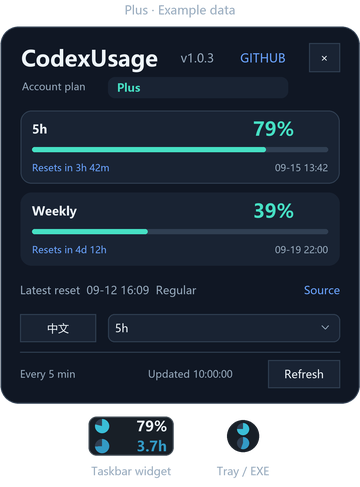
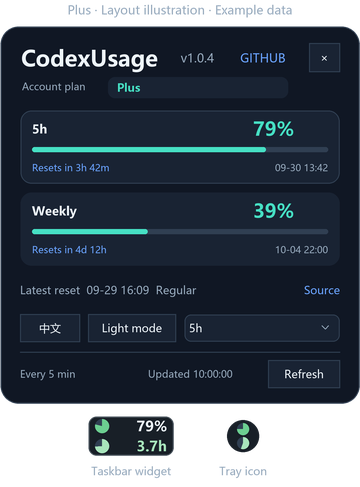
Prepare v1.0.4 release documentation and current previews

diff --git a/scripts/render-previews.py b/scripts/render-previews.py
@@ -19,8 +19,8 @@ MUTED = (150, 169, 188)
 AQUA = (70, 224, 196)
 BLUE = (106, 163, 255)
 WIDGET_BG = (24, 31, 39)
-QUOTA = (58, 190, 215)
-TIME = (51, 154, 197)
+QUOTA = (108, 207, 145)
+TIME = (168, 229, 188)
 
 
 class Canvas:
@@ -67,15 +67,15 @@ class Canvas:
 
 
 def render(plan, english, destination, fonts, version):
-    # Consistent example clock: 2026-09-15 10:00 local time.
+    # Synthetic example clock: 2026-09-30 10:00 local time.
     if plan == "Plus":
         windows = [
-            ("5h" if english else "5 小时额度", 79, "Resets in 3h 42m" if english else "3小时42分后重置", "09-15 13:42"),
-            ("Weekly" if english else "每周额度", 39, "Resets in 4d 12h" if english else "4天12小时后重置", "09-19 22:00"),
+            ("5h" if english else "5 小时额度", 79, "Resets in 3h 42m" if english else "3小时42分后重置", "09-30 13:42"),
+            ("Weekly" if english else "每周额度", 39, "Resets in 4d 12h" if english else "4天12小时后重置", "10-04 22:00"),
         ]
     else:
         windows = [
-            ("Weekly" if english else "每周额度", 95, "Resets in 4d 12h" if english else "4天12小时后重置", "09-19 22:00"),
+            ("Weekly" if english else "每周额度", 95, "Resets in 4d 12h" if english else "4天12小时后重置", "10-04 22:00"),
         ]
     cards_height = len(windows) * 74 + (len(windows) - 1) * 8
     choice_y = 84 + cards_height + 48
@@ -83,7 +83,7 @@ def render(plan, english, destination, fonts, version):
     app_height = footer_y + 44
     top = 26
     canvas = Canvas(top + app_height + 83, fonts)
-    canvas.text(plan + (" · Example data" if english else " · 示例数据"), 0, 0, 360, 20, 12, MUTED, align="center")
+    canvas.text(plan + (" · Layout illustration · Example data" if english else " · 布局示意 · 示例数据"), 0, 0, 360, 20, 12, MUTED, align="center")
     canvas.round(.5, top + .5, 359, app_height - 1, 18, BG, BORDER)
     canvas.text("CodexUsage", 21, top + 18, 153, 28, 22, bold=True)
     canvas.text(version, 176, top + 18, 43, 28, 12, MUTED, align="center")
@@ -102,12 +102,16 @@ def render(plan, english, destination, fonts, version):
         canvas.round(32, y + 37, 296 * amount / 100, 5, 2.5, AQUA)
         canvas.text(countdown, 32, y + 49, 170, 17, 9.5, BLUE)
         canvas.text(reset, 204, y + 49, 124, 17, 9.5, MUTED, align="right")
-    canvas.text("Latest reset  09-12 16:09  Regular" if english else "最近重置公告  09-12 16:09  即时重置", 20, top + 84 + cards_height + 10, 262, 28, 11, MUTED)
+    canvas.text("Latest reset  09-29 16:09  Regular" if english else "最近重置公告  09-29 16:09  即时重置", 20, top + 84 + cards_height + 10, 262, 28, 11, MUTED)
     canvas.text("Source" if english else "来源", 290, top + 84 + cards_height + 10, 50, 28, 11, BLUE, align="right")
-    canvas.round(20, top + choice_y, 76, 28, 0, CARD, BORDER)
-    canvas.text("中文" if english else "English", 20, top + choice_y, 76, 28, 11, align="center")
-    canvas.round(108, top + choice_y, 232, 28, 6.4, CARD, BORDER)
-    canvas.text(windows[0][0], 115, top + choice_y, 197, 28, 11)
+    # DetailsLayout.ChoiceRow: language, theme and selected quota share one row.
+    # Captions and 11 px UI font match DetailsLayout / DetailsForm at 100% DPI.
+    canvas.round(20, top + choice_y, 60, 28, 0, CARD, BORDER)
+    canvas.text("中文" if english else "English", 20, top + choice_y, 60, 28, 11, align="center")
+    canvas.round(88, top + choice_y, 88, 28, 0, CARD, BORDER)
+    canvas.text("Light mode" if english else "浅色模式", 88, top + choice_y, 88, 28, 11, align="center")
+    canvas.round(184.5, top + choice_y + .5, 155, 27, 6.44, CARD, BORDER)
+    canvas.text(windows[0][0], 189, top + choice_y, 130, 28, 11)
     canvas.line([(321.8, top + choice_y + 11.5), (325.2, top + choice_y + 14.9), (328.6, top + choice_y + 11.5)], MUTED, 1.3)
     canvas.line([(20, top + footer_y - 8), (340, top + footer_y - 8)], BORDER)
     canvas.text("Every 5 min" if english else "额度每5分钟自动刷新", 20, top + footer_y, 124, 28, 10, MUTED)
@@ -125,7 +129,7 @@ def render(plan, english, destination, fonts, version):
     canvas.disk(237, icon_y + 7, 12, 75, QUOTA)
     canvas.disk(237, icon_y + 21, 12, 200 / 3.6, TIME)
     canvas.text("Taskbar widget" if english else "任务栏小条", 69, icon_y + 47, 124, 16, 11, MUTED, align="center")
-    canvas.text("Tray / EXE" if english else "托盘 / EXE 图标", 190, icon_y + 47, 106, 16, 11, MUTED, align="center")
+    canvas.text("Tray icon" if english else "托盘图标", 190, icon_y + 47, 106, 16, 11, MUTED, align="center")
     canvas.save(destination)
 
 

diff --git a/CHANGELOG.md b/CHANGELOG.md
@@ -1,13 +1,13 @@
 # Changelog
 
-## 1.0.4 — Unreleased
+## 1.0.4 — 2026-09-30
 
 - 针对任务栏周期遮挡额度浮条的层级闪烁：监听桌面层级变化，合并排队后仅在任务栏确实位于浮条上方时恢复；保留每秒兜底检查，稳定状态不再反复置顶。
   Respond to desktop reorder events when the taskbar covers the widget, coalesce checks and raise only when needed; retain the one-second fallback without redundant stable-state raises.
-- 新增深色／浅色模式切换：详情页按钮与右键“外观”菜单均可操作，立即更新配色并保存偏好；旧配置默认深色，版本继续保持 1.0.4。
-  Add instant dark/light mode switching from the details button or Appearance menu, with a saved preference and dark defaults for existing settings; keep version 1.0.4.
-- 语言、主题和额度选择合并为同一行；浅色使用柔和的中性浅灰背景，两个饼图采用用户色样 #7BBDFF / #1C8DFF。深色保持浅绿与更浅绿配色，各背景保持原样。
-  Put language, theme and quota selection on one row. Light mode uses a soft neutral-gray background and the supplied #7BBDFF / #1C8DFF disk colours. Dark mode keeps its light green and lighter green palette; all backgrounds are unchanged.
+- 新增深色／浅色模式切换：详情页按钮与右键“外观”菜单均可操作，立即更新配色并保存偏好；旧配置默认深色。
+  Add instant dark/light mode switching from the details button or Appearance menu, with a saved preference and dark defaults for existing settings.
+- 语言、主题和额度选择合并为同一行；浅色使用柔和的中性浅灰背景，两个饼图采用浅蓝 #7BBDFF 与蓝色 #1C8DFF，深色采用浅绿与更浅绿配色。
+  Put language, theme and quota selection on one row. Light mode uses a soft neutral-gray background with #7BBDFF and #1C8DFF blue disks; dark mode uses light green and lighter green disks.
 - 固定 Codex 通信输入编码，避免宿主的 UTF-8 BOM 导致握手失败；加强协议错误测试，防止提前断线被误判为通过。
   Make Codex input independent of the host's UTF-8 BOM and ensure protocol tests reach the intended error branch.
 - 正确处理公共公告 304 缓存响应、日期形式的重试间隔和取消；修复缓存头大小写/引号解析及坏响应提前延长缓存的问题，新增离线 HTTP 回归套件。

diff --git a/README.en.md b/README.en.md
@@ -4,7 +4,7 @@
 
 A lightweight Windows widget for Codex quota and reset time, next to the notification area.
 
-**[Download CodexUsage.exe](https://github.com/Amygdala42/CodexUsage/releases/download/v1.0.3/CodexUsage.exe)** · [Releases and updates](https://github.com/Amygdala42/CodexUsage/releases)
+**[Download v1.0.4 · CodexUsage.exe](https://github.com/Amygdala42/CodexUsage/releases/download/v1.0.4/CodexUsage.exe)** · [ZIP package](https://github.com/Amygdala42/CodexUsage/releases/download/v1.0.4/CodexUsage-Windows-x64.zip) · [Release notes](https://github.com/Amygdala42/CodexUsage/releases/tag/v1.0.4)
 
 For Windows x64.
 
@@ -21,7 +21,7 @@ For Windows x64.
 
 ## Examples
 
-Illustrations of the v1.0.3 layout with example data; available quota windows depend on the account's actual response.
+Illustrations of the v1.0.4 layout using example data, not live-account screenshots; available quota windows depend on the account's actual response.
 
 ### Plus
 
@@ -30,6 +30,12 @@ Illustrations of the v1.0.3 layout with example data; available quota windows de
 ### Pro
 
 ![Pro interface example](assets/pro-preview-en.png)
+
+### Dark and light
+
+The production renderer and example data illustrate both themes in normal, stale, error and syncing states.
+
+![Dark and light rendering preview](assets/appearance-preview.png)
 
 ## Download and run
 
@@ -48,7 +54,7 @@ See [TESTING](docs/TESTING.md) for verification scope.
 
 ## Development
 
-The current source is **1.0.4 with dark/light mode switching (unreleased)**. The download link above still points to the published 1.0.3 release, and the illustrations retain that layout. Fixes address protocol input encoding, announcement caching and retries, keeping the usage selector open during refresh, and responding to taskbar occlusion through desktop reorder events. See [TESTING](docs/TESTING.md) for verification scope.
+The current version is **v1.0.4** (2026-09-30), with executable file and assembly versions **1.0.4.0**. It includes dark/light switching, a compact settings row, protocol input and announcement cache fixes, and recovery from taskbar occlusion on desktop reorder events. All 263 automated checks passed before release. See [TESTING](docs/TESTING.md) for native GUI, live Plus-account and other multi-display/DPI verification limits.
 
 ```powershell
 ./scripts/build.ps1

diff --git a/README.md b/README.md
@@ -4,7 +4,7 @@
 
 轻量 Windows Codex 额度小窗，在任务栏通知区旁查看剩余额度和重置倒计时。
 
-**[下载 CodexUsage.exe](https://github.com/Amygdala42/CodexUsage/releases/download/v1.0.3/CodexUsage.exe)** · [发行版与更新说明](https://github.com/Amygdala42/CodexUsage/releases)
+**[下载 v1.0.4 · CodexUsage.exe](https://github.com/Amygdala42/CodexUsage/releases/download/v1.0.4/CodexUsage.exe)** · [ZIP 程序包](https://github.com/Amygdala42/CodexUsage/releases/download/v1.0.4/CodexUsage-Windows-x64.zip) · [更新说明](https://github.com/Amygdala42/CodexUsage/releases/tag/v1.0.4)
 
 适用于 Windows x64。
 
@@ -21,7 +21,7 @@
 
 ## 界面示例
 
-以下为 v1.0.3 布局示意图，使用示例数据；额度项目以账号实际返回为准。
+以下为 v1.0.4 布局示意图，使用示例数据，并非真实账号截图；额度项目以账号实际返回为准。
 
 ### Plus
 
@@ -30,6 +30,12 @@
 ### Pro
 
 ![Pro 界面示例](assets/pro-preview-zh.png)
+
+### 深色与浅色
+
+下图使用程序实际绘图代码和示例数据，展示两种主题及正常、过期、失败、更新中状态。
+
+![深色与浅色绘图预览](assets/appearance-preview.png)
 
 ## 下载与运行
 
@@ -48,7 +54,7 @@
 
 ## 开发
 
-当前源码为 **1.0.4（含深浅主题切换，尚未发布）**；上方下载链接仍指向已发布的 1.0.3，示意图也保留该版布局。包含通信输入编码、公告缓存和重试修复，刷新时保留额度选择菜单，以及任务栏遮挡浮条时按层级变化事件及时恢复。验证范围见 [测试说明](docs/TESTING.md)。
+当前版本为 **v1.0.4**（2026-09-30），EXE 文件与程序集版本为 **1.0.4.0**。包含深浅主题切换、单行设置布局、通信输入编码与公告缓存修复，以及任务栏遮挡浮条时按层级变化事件恢复。发布前 263 项自动检查通过；原生 GUI、真实 Plus 账号及其他多屏幕/DPI 场景的验证范围见 [测试说明](docs/TESTING.md)。
 
 ```powershell
 ./scripts/build.ps1

diff --git a/docs/BUILD.md b/docs/BUILD.md
@@ -40,3 +40,13 @@ Optional: regenerate the four bilingual illustrations with Python 3, Pillow and 
 ```powershell
 python scripts/render-previews.py assets
 ```
+
+README 中的浮条和主题对照图来自生产绘图代码，可在运行 Theme 检查后复制生成；同样只使用合成数据，不启动原生窗口。
+
+The README widget and theme comparison come from the production renderer. Regenerate them with the Theme suite and copy its synthetic-data output; this does not start a native window.
+
+```powershell
+./scripts/test.ps1 -Suite Theme
+Copy-Item env/tests/theme-render/widget-dark.png assets/widget-preview.png
+Copy-Item env/tests/theme-render/theme-comparison.png assets/appearance-preview.png
+```
